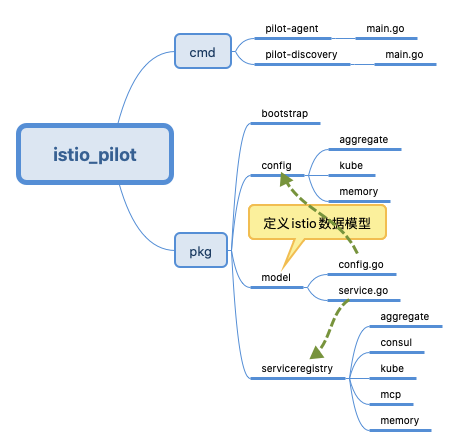
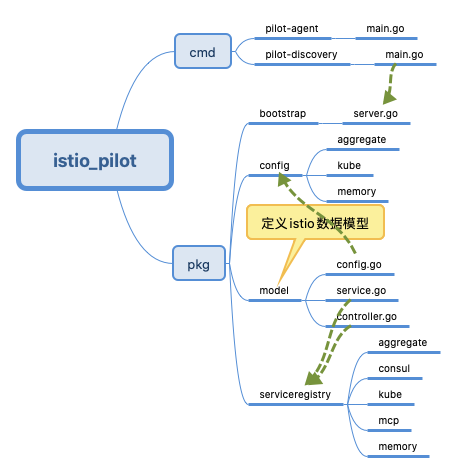
[fix]

Changed region(s): [[0.2751, 0.0291, 0.9782, 0.9888], [0.0306, 0.2036, 0.3974, 0.4362]]

diff --git a/_posts/Technology/Mesh/2020-01-09-istio_pilot_source.md b/_posts/Technology/Mesh/2020-01-09-istio_pilot_source.md
@@ -8,7 +8,7 @@ keywords: Go
 
 ---
 
-## 前言（未完成）
+## 前言
 
 * TOC
 {:toc}
@@ -29,7 +29,7 @@ keywords: Go
 
 ![](/public/upload/mesh/pilot_input_output.svg)
 
-## 架构在model 设计上的体现
+## 处理输入
 
 底层平台 多种多样，istio 抽象一套自己的数据模型，以进行平台间的交互。
 
@@ -38,6 +38,8 @@ keywords: Go
 [Istio 服务注册插件机制代码解析](https://zhaohuabing.com/post/2019-02-18-pilot-service-registry-code-analysis/)
 
 ![](/public/upload/mesh/pilot_discovery.png)
+
+中间Abstract Model 层 实现如下
 
 ![](/public/upload/mesh/pilot_service_object.png)
 
@@ -69,6 +71,10 @@ IstioConfigStore扩展ConfigStore，增加一些针对Istio资源的操控接口
 
 Environment provides an aggregate environmental API for Pilot. Environment为Pilot提供聚合的环境性的API
 
+由上文可知，启动时，向  Controller 和ConfigStoreCache 注册handler，执行 ConfigStoreCache.Run 和  Controller.Run，便可以同步 service 和config 数据，并在数据变动时 触发handler 执行。**pilot数据输入的部分就解决了**
+
+![](/public/upload/mesh/pilot_component.svg)
+
 ## 启动
 
 启动命令示例：`/usr/local/bin/pilot-discovery discovery --monitoringAddr=:15014 --log_output_level=default:info --domain cluster.local --secureGrpcAddr  --keepaliveMaxServerConnectionAge 30m`
@@ -90,21 +96,93 @@ Environment provides an aggregate environmental API for Pilot. Environment为Pil
         s.initSDSCA(args)
     }
 
-## 组件图
+## 处理请求
 
-![](/public/upload/mesh/pilot_component.svg)
+### envoy 向pilot 发送请求
 
-### envoy 向pilot 发送请求（未完成）
-
-ads.proto 文件
+envoy 通过grpc 协议与 pilot-discovery 交互，因此首先找 ads.proto 文件
 
 [ads.proto](https://github.com/envoyproxy/data-plane-api/blob/master/envoy/service/discovery/v2/ads.proto)
 
 基于ads.proto 生成 ads.pb.go 文件`github.com/envoyproxy/go-control-plane/envoy/service/discovery/v2/ads.pb.go` 其中定义了 服务接口 AggregatedDiscoveryServiceServer，其实现类 DiscoveryServer，DiscoveryServer 方法分散于多个go 文件中
 
-下面就是深挖 DiscoveryServer 代码实现，看下DiscoveryServer 从哪拿的数据
+![](/public/upload/mesh/pilot_discovery_server.png)
 
-上层是model 是逻辑，下层是adapter [Istio 技术与实践01： 源码解析之 Pilot 多云平台服务发现机制](https://juejin.im/post/5b965d646fb9a05d37617754)
+grpc 请求通过 StreamAggregatedResources 来处理
+
+    func (s *DiscoveryServer) StreamAggregatedResources(stream ads.AggregatedDiscoveryService_StreamAggregatedResourcesServer) error {
+        peerInfo, ok := peer.FromContext(stream.Context())
+        ...
+        con := newXdsConnection(peerAddr, stream)
+        ...
+        reqChannel := make(chan *xdsapi.DiscoveryRequest, 1)
+        go receiveThread(con, reqChannel, &receiveError)
+        for {
+            select {
+            case discReq, ok := <-reqChannel:
+                switch discReq.TypeUrl {
+                case ClusterType:
+                    ...
+                    err := s.pushCds(con, s.globalPushContext(), versionInfo())
+                case ListenerType:
+                    ...
+                case RouteType:
+                    ...
+                case EndpointType:
+                    ...
+                }
+            case pushEv := <-con.pushChannel:
+                ...
+            }
+        }
+    }
+
+DiscoveryServer 收到 ClusterType 的请求要生成 cluster 数据响应
+
+    func (s *DiscoveryServer) pushCds(con *XdsConnection, push *model.PushContext, version string) error {
+        rawClusters := s.generateRawClusters(con.node, push)
+        ...
+        response := con.clusters(rawClusters, push.Version)
+        err := con.send(response)
+        ...
+        return nil
+    }
+
+cluster 数据实际由ConfigGenerator 生成
+
+    func (s *DiscoveryServer) generateRawClusters(node *model.Proxy, push *model.PushContext) []*xdsapi.Cluster {
+        rawClusters := s.ConfigGenerator.BuildClusters(node, push)
+        ...
+        return rawClusters
+    }
+
+数据来自PushContext.Services 方法
+
+    func (configgen *ConfigGeneratorImpl) buildOutboundClusters(proxy *model.Proxy, push *model.PushContext) []*apiv2.Cluster {
+        clusters := make([]*apiv2.Cluster, 0)
+        networkView := model.GetNetworkView(proxy)
+        for _, service := range push.Services(proxy) {
+            ...
+        }
+        return clusters
+    }
+
+cluster 数据来自 PushContext的privateServicesByNamespace 和 publicServices， 通过代码可以发现，它们都是初始化时从model.Environment 取Service 数据的。并通过更新机制（待研究） 保持数据最新。
+
+    func (ps *PushContext) Services(proxy *Proxy) []*Service {
+        ...
+        out := make([]*Service, 0)
+        if proxy == nil {
+            for _, privateServices := range ps.privateServicesByNamespace {
+                out = append(out, privateServices...)
+            }
+        } else {
+            out = append(out, ps.privateServicesByNamespace[proxy.ConfigNamespace]...)
+        }
+        out = append(out, ps.publicServices...)
+        return out
+    }
+
 
 ### pilot 监控到配合变化 将数据推给envoy（未完成）
 
